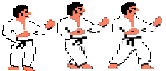
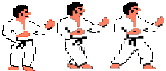
Karateka animation2

Changed region(s): [[0.6627, 0.0282, 0.994, 0.9859], [0.6325, 0.7887, 0.8133, 0.9859], [0.753, 0.6761, 0.8434, 0.7887]]

diff --git a/examples/animation/main.go b/examples/animation/main.go
@@ -3,6 +3,7 @@ package main
 import (
 	"image"
 	_ "image/png"
+	"image/color"
 	"log"
 	"os"
 
@@ -34,6 +35,7 @@ func (g *Game) Update() error {
 }
 
 func (g *Game) Draw(screen *ebiten.Image) {
+    screen.Fill(color.RGBA{R: 211, G: 211, B: 211, A: 255})
 	op := &ebiten.DrawImageOptions{}
 	op.GeoM.Translate(-float64(frameWidth)/2, -float64(frameHeight)/2)
 	op.GeoM.Translate(screenWidth/2, screenHeight/2)
@@ -47,6 +49,7 @@ func (g *Game) Layout(outsideWidth, outsideHeight int) (int, int) {
 }
 
 func main() {
+    ebiten.SetMaxTPS(20)
 	file, err := os.Open("kw1.png")
         if err != nil {
             log.Fatal(err)
